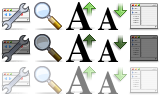
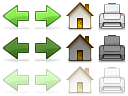
Bug 268776 - Help Viewer uses browser chrome.  r=kmgerich, a=bsmedberg

diff --git a/mozilla/toolkit/themes/qute/help/help.css b/mozilla/toolkit/themes/qute/help/help.css
@@ -37,20 +37,10 @@
 @import url("chrome://global/skin/");
 @namespace url("http://www.mozilla.org/keymaster/gatekeeper/there.is.only.xul");
 
-.toolbarbutton-1 {
-	-moz-box-orient: vertical;
-	min-width: 0px;
-#ifdef MOZ_PHOENIX
-	list-style-image: url("chrome://browser/skin/Toolbar.png");
-#else
+toolbar toolbarbutton {
+	-moz-box-orient: horizontal !important;
+	min-width: 16px;
 	list-style-image: url("chrome://help/skin/Toolbar.png");
-#endif
-}
-
- #help-zoom-large-button,
- #help-zoom-small-button,
- #help-sidebar-button {
-	list-style-image: url("chrome://help/skin/zoomImg.png");
 }
 
 toolbarbutton:not([disabled="true"]):hover,
@@ -59,6 +49,9 @@ toolbarbutton:not([disabled="true"]):hover:active,
 menubutton:not([disabled="true"]):hover:active {
 	color: ButtonText !important;
 }
+
+/* Set the minimum sidebar width so the help contents aren't squeezed together.*/
+#help-sidebar { min-width: 15em; width: 20em; max-width: 25em; }
 
 # *** BEGIN TOOLBAR BUTTON CODE ***
 # All toolbar button images are 30x30 for the Help Viewer.
@@ -71,65 +64,8 @@ menubutton:not([disabled="true"]):hover:active {
  #help-forward-button:hover { -moz-image-region: rect(30px 60px 60px 30px); }
  #help-forward-button[disabled="true"] { -moz-image-region: rect(60px 60px 90px 30px); }
 
- #help-find-button { -moz-image-region: rect(0px 240px 30px 210px); }
- #help-find-button:hover { -moz-image-region: rect(30px 240px 60px 210px); }
+ #help-home-button { -moz-image-region: rect(0px 90px 30px 60px); }
+ #help-home-button:hover { -moz-image-region: rect(30px 90px 60px 60px); }
 
- #help-toolbar-customization { -moz-image-region: rect(0px 330px 30px 300px); }
- #help-toolbar-customization:hover { -moz-image-region: rect(30px 330px 60px 300px); }
-
- #help-home-button { -moz-image-region: rect(0px 150px 30px 120px); }
- #help-home-button:hover { -moz-image-region: rect(30px 150px 60px 120px); }
-
- #help-print-button { -moz-image-region: rect(0px 270px 30px 240px); }
- #help-print-button:hover { -moz-image-region: rect(30px 270px 60px 240px); }
-
- #help-zoom-large-button { -moz-image-region: rect(0px 30px 30px 0px); }
- #help-zoom-large-button:hover { -moz-image-region: rect(30px 30px 60px 0px); }
-
- #help-zoom-small-button { -moz-image-region: rect(0px 60px 30px 30px); }
- #help-zoom-small-button:hover { -moz-image-region: rect(30px 60px 60px 30px); }
-
- #help-sidebar-button { -moz-image-region: rect(0px 90px 60px 60px); }
- #help-sidebar-button:hover { -moz-image-region: rect(30px 90px 60px 60px); }
-
-# ** Toolbar Customization stuff **
-toolbar[mode="icons"] > toolbarbutton > .toolbarbutton-icon,
-toolbar[mode="text"] > toolbarbutton > .toolbarbutton-text,
-toolbar[mode="icons"] > toolbarbutton[type="menu-button"] > .toolbarbutton-icon,
-toolbar[mode="text"] > toolbarbutton[type="menu-button"] > .toolbarbutton-text {
-	display: -moz-box;
-}
-
-toolbar[mode="icons"] > toolbarbutton > .toolbarbutton-text,
-toolbar[mode="text"] > toolbarbutton > .toolbarbutton-icon,
-toolbar[mode="text"] > toolbarbutton > toolbarbutton > .toolbarbutton-icon,
-toolbar[mode="icons"] > toolbarbutton > toolbarbutton > .toolbarbutton-text {
-	display: none;
-}
-
-# Small icons are not supported.
- #smallicons { display: none; }
-
-# *** THROBBER ***
- #help-throbber {
-  -moz-appearance: none;
-  -moz-user-focus: ignore;
-  margin: 0 !important;
-  border: none !important;
-  padding: 0px !important;
-  min-width: 0;
-  background-color: transparent;
-#ifdef MOZ_PHOENIX
-  list-style-image: url("chrome://browser/skin/Throbber.png");
-#else
-  list-style-image: url("chrome://help/skin/throbber.png");
-#endif
-}
-
- #help-throbber[busy="true"] {
-#ifdef MOZ_PHOENIX
-  list-style-image: url("chrome://global/skin/icons/Loading.gif");
-#else
-  list-style-image: url("chrome://help/skin/throbber-busy.gif");
-#endif
-}
+ #help-print-button { -moz-image-region: rect(0px 120px 30px 90px); }
+ #help-print-button:hover { -moz-image-region: rect(30px 120px 60px 90px); }

diff --git a/mozilla/toolkit/themes/winstripe/help/help.css b/mozilla/toolkit/themes/winstripe/help/help.css
@@ -38,27 +38,10 @@
 @import url("chrome://global/skin/");
 @namespace url("http://www.mozilla.org/keymaster/gatekeeper/there.is.only.xul");
 
-toolbarbutton {
-	-moz-box-orient: horizontal;
-}
-
-.toolbarbutton-1 {
-	-moz-box-orient: horizontal;
-	min-width: 0px;
+toolbar toolbarbutton {
+	-moz-box-orient: horizontal !important;
+	min-width: 16px;
 	list-style-image: url("chrome://help/skin/Toolbar.png");
-}
-
-.browserButton {
-  -moz-box-orient: horizontal;
-  min-width: 0px;
-  list-style-image: url("chrome://browser/skin/Toolbar.png");
-}
-
-#helpToolbar .toolbarbutton-1,
-#helpToolbar .browserButton,
-#helpToolbar .toolbarbutton-menubutton-button {
-  min-width: 16px;
-  -moz-box-orient: horizontal !important;
 }
 
 toolbarbutton:not([disabled="true"]):hover,
@@ -71,28 +54,16 @@ menubutton:not([disabled="true"]):hover:active {
 /* Set the minimum sidebar width so the help contents aren't squeezed together.*/
 #help-sidebar { min-width: 15em; width: 20em; max-width: 25em; }
 
-#help-back-button, 
-#help-forward-button[chromedir="rtl"] { -moz-image-region: rect(0px 24px 24px 0px); }
-#help-back-button:hover, 
-#help-forward-button[chromedir="rtl"]:hover { -moz-image-region: rect(24px 24px 48px 0px); }
-#help-back-button[disabled="true"], 
-#help-forward-button[disabled="true"][chromedir="rtl"] { -moz-image-region: rect(48px 24px 72px 0px); }
+#help-back-button, #help-forward-button[chromedir="rtl"] { -moz-image-region: rect(0px 24px 24px 0px); }
+#help-back-button:hover, #help-forward-button[chromedir="rtl"]:hover { -moz-image-region: rect(24px 24px 48px 0px); }
+#help-back-button[disabled="true"], #help-forward-button[disabled="true"][chromedir="rtl"] { -moz-image-region: rect(48px 24px 72px 0px); }
 
-#help-forward-button, #help-back-button[chromedir="rtl"] { 
-  -moz-image-region: rect(0px 48px 24px 24px);
-}
-#help-forward-button:hover, #help-back-button[chromedir="rtl"]:hover {
-  -moz-image-region: rect(24px 48px 48px 24px);
-}
-#help-forward-button[disabled="true"],#help-back-button[disabled="true"][chromedir="rtl"] {
-  -moz-image-region: rect(48px 48px 72px 24px);
-}
+#help-forward-button, #help-back-button[chromedir="rtl"] { -moz-image-region: rect(0px 48px 24px 24px); }
+#help-forward-button:hover, #help-back-button[chromedir="rtl"]:hover { -moz-image-region: rect(24px 48px 48px 24px); }
+#help-forward-button[disabled="true"], #help-back-button[disabled="true"][chromedir="rtl"] { -moz-image-region: rect(48px 48px 72px 24px); }
 
-#help-home-button { -moz-image-region: rect(0px 120px 24px 96px); }
-#help-home-button:hover { -moz-image-region: rect(24px 120px 48px 96px); }
+#help-home-button { -moz-image-region: rect(0px 72px 24px 48px); }
+#help-home-button:hover { -moz-image-region: rect(24px 72px 48px 48px); }
 
-#help-print-button { -moz-image-region: rect(0px 216px 24px 192px); }
-#help-print-button:hover { -moz-image-region: rect(24px 216px 48px 192px); }
-
-
-
+#help-print-button { -moz-image-region: rect(0px 96px 24px 72px); }
+#help-print-button:hover { -moz-image-region: rect(24px 96px 48px 72px); }

diff --git a/mozilla/toolkit/themes/pinstripe/help/help.css b/mozilla/toolkit/themes/pinstripe/help/help.css
@@ -37,35 +37,16 @@
 @import url("chrome://global/skin/");
 @namespace url("http://www.mozilla.org/keymaster/gatekeeper/there.is.only.xul");
 
-toolbarbutton {
-  -moz-box-orient: horizontal;
+toolbar toolbarbutton {
+  min-width: 16px;
+  list-style-image: url("chrome://help/skin/Toolbar.png");
+  -moz-box-orient: horizontal !important;
 }
 
 toolbarbutton[type="menu-button"] {
   margin: 0px;
   padding: 0px;
 }
-
-.toolbarbutton-1 {
-  min-width: 16px;
-  list-style-image: url("chrome://help/skin/Toolbar.png");
-  -moz-box-orient: vertical;
-}
-
-.toolbarbutton-menubutton-stack {
-  -moz-box-orient: horizontal;
-}
-
-.toolbarbutton-menubutton-stack > .toolbarbutton-menubutton-button {
-  -moz-box-orient: horizontal;
-}
-
-.browserButton {
-  min-width: 16px;
-  list-style-image: url("chrome://browser/skin/Toolbar.png");
-  -moz-box-orient: horizontal;
-}
-
 
 toolbarbutton:not([disabled="true"]):hover,
 menubutton:not([disabled="true"]):hover,
@@ -85,11 +66,11 @@ menubutton:not([disabled="true"]):hover:active {
 #help-forward-button:not([disabled="true"]):hover:active { -moz-image-region: rect(32px 64px 64px 32px); }
 #help-forward-button[disabled="true"] { -moz-image-region: rect(64px 64px 96px 32px); }
 
-#help-home-button { -moz-image-region: rect(0px 160px 32px 128px); }
-#help-home-button:hover:active { -moz-image-region: rect(32px 160px 64px 128px); }
+#help-home-button { -moz-image-region: rect(0px 96px 32px 64px); }
+#help-home-button:hover:active { -moz-image-region: rect(32px 96px 64px 64px); }
 
-#help-print-button { -moz-image-region: rect(0px 288px 32px 256px); }
-#help-print-button:hover:active { -moz-image-region: rect(32px 288px 64px 256px); }
+#help-print-button { -moz-image-region: rect(0px 128px 32px 96px); }
+#help-print-button:hover:active { -moz-image-region: rect(32px 128px 64px 96px); }
 
 
 #helpsidebar-splitter {
@@ -121,4 +102,3 @@ menubutton:not([disabled="true"]):hover:active {
   margin-bottom: 14px;
   border-bottom: 1px solid #bebebe;
 }
-
